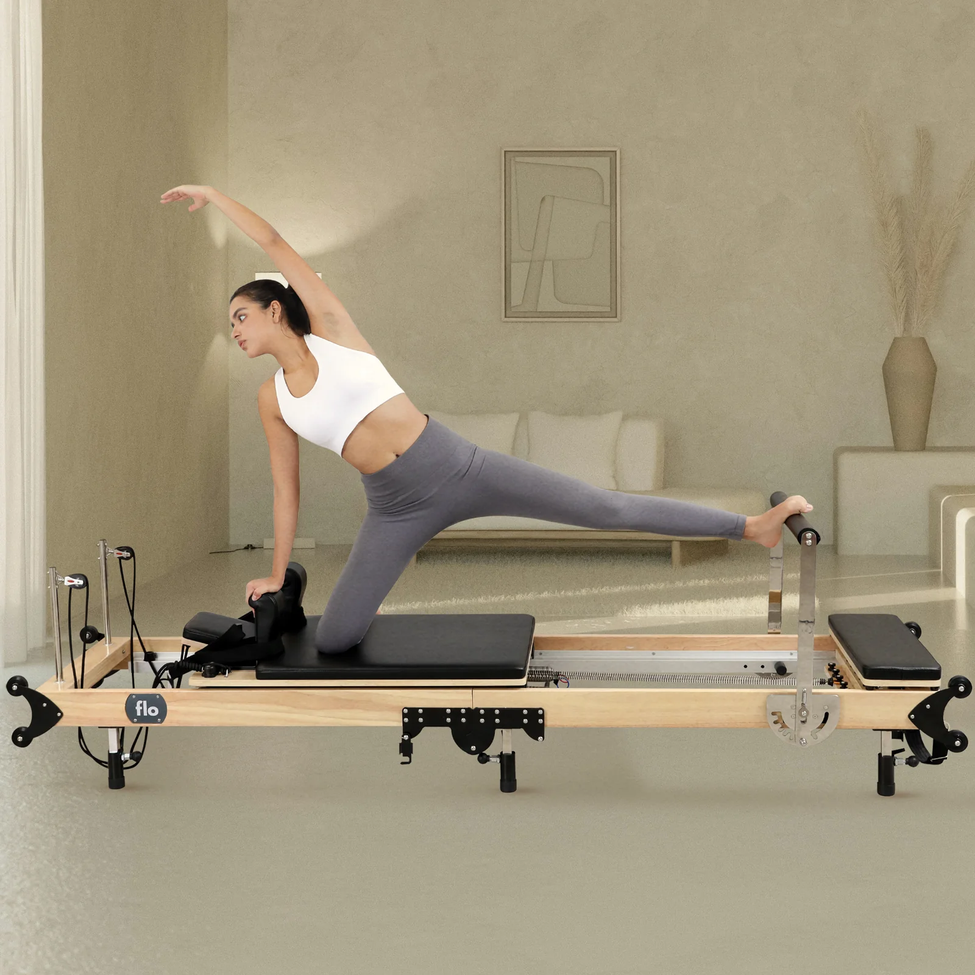
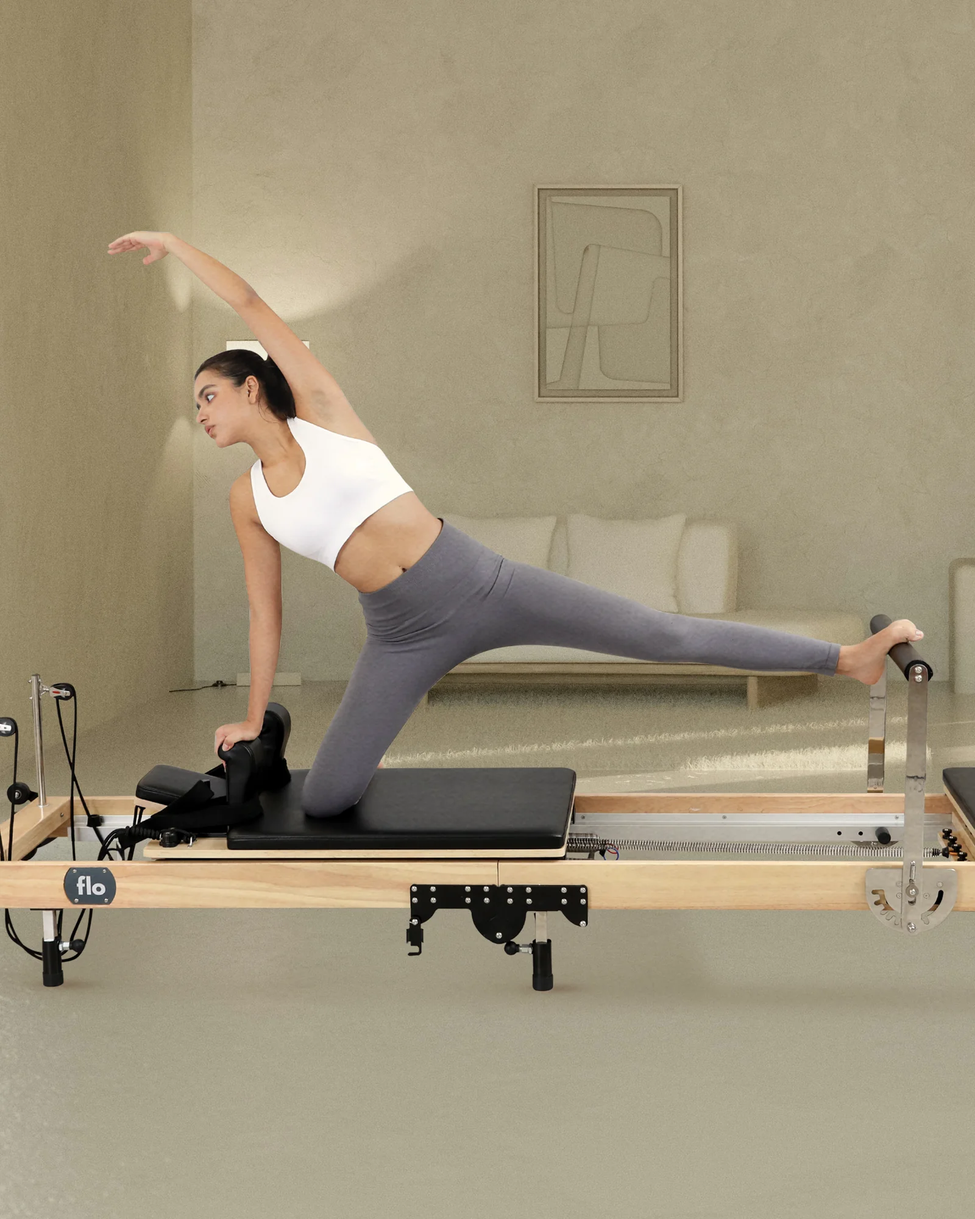
feat(brands): mirror the NOBL and flo panels with matching 4:5 photo columns

diff --git a/assets/css/styles.css b/assets/css/styles.css
@@ -270,7 +270,8 @@ ul { padding: 0; list-style: none; }
 /* brand panel colours, matching the home page's NOBL and flo tiles */
 .brand-feature__card { background: var(--panel, var(--white)); }
 .brand-feature--nobl { --panel: var(--nobl-tile); }
-/* the NOBL photo is 4:5 portrait: its column is 0.8 x the panel's 646px height, so the whole photo shows */
+/* both brand photos are 4:5 portrait: each photo column is 0.8 x the panel's 646px height, so the whole photo
+   shows, and the two panels mirror each other (NOBL photo left, flo photo right) */
 @media (min-width: 1000px) { .brand-feature--nobl .brand-feature__card { grid-template-columns: min(517px, 50%) 1fr; } }
 .brand-feature__nobl-photo { object-position: 50% 50%; }
 .brand-feature--nobl .brand-feature__text { color: var(--white); }
@@ -278,7 +279,7 @@ ul { padding: 0; list-style: none; }
 .brand-feature--nobl .btn-pill:hover { background: var(--flo-beige); }
 .brand-feature--flo { --panel: var(--flo-beige); }
 /* flo alternates: text panel on the left, photo on the right */
-.brand-feature--flo .brand-feature__card { grid-template-columns: 639fr 641fr; }
+.brand-feature--flo .brand-feature__card { grid-template-columns: 1fr min(517px, 50%); }
 .brand-feature--flo .brand-feature__img { order: 2; }
 
 /* ---- team -------------------------------------------------------------- */

diff --git a/brands.html b/brands.html
@@ -51,7 +51,7 @@
       <div class="brand-feature__card">
         <picture class="brand-feature__img">
           <source media="(max-width: 999px)" srcset="assets/img/brands-flo-mobile.webp" width="398" height="616">
-          <img src="assets/img/brands-flo-reformer-lifestyle.webp" width="1600" height="1600" loading="lazy" alt="A woman stretching on a wooden flo Pilates reformer in a calm living room">
+          <img src="assets/img/brands-flo-reformer-lifestyle.webp" width="1600" height="2000" loading="lazy" alt="A woman stretching on a wooden flo Pilates reformer in a calm living room">
         </picture>
         <div class="brand-feature__text">
           <h2>FLO PILATES</h2>
